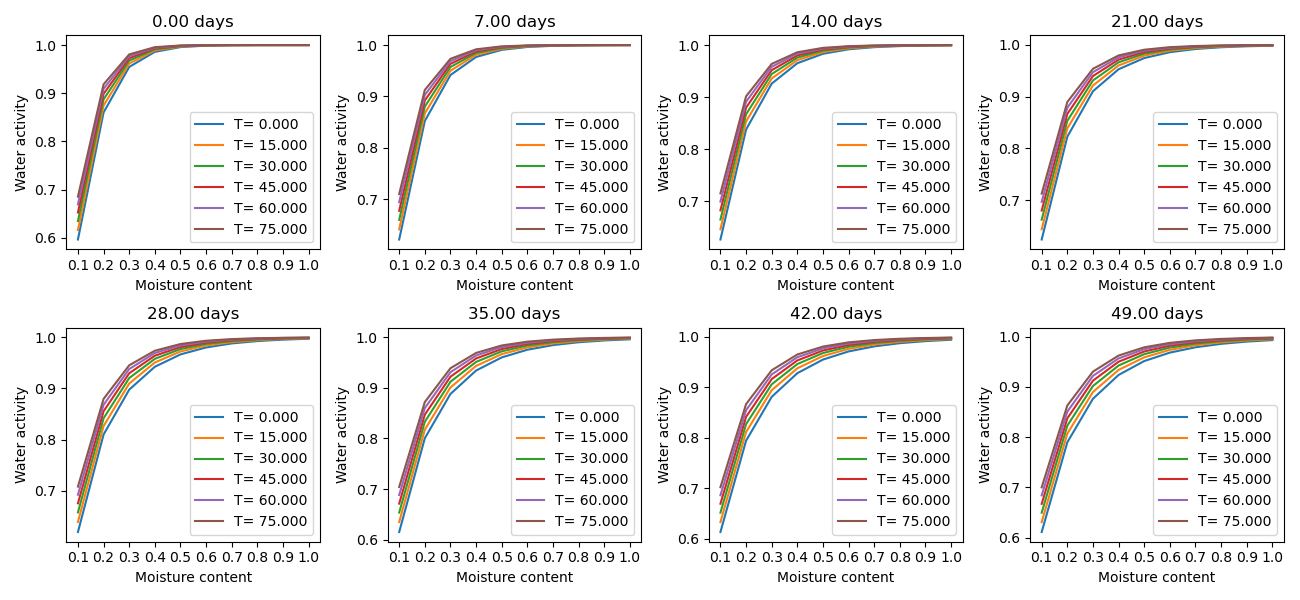
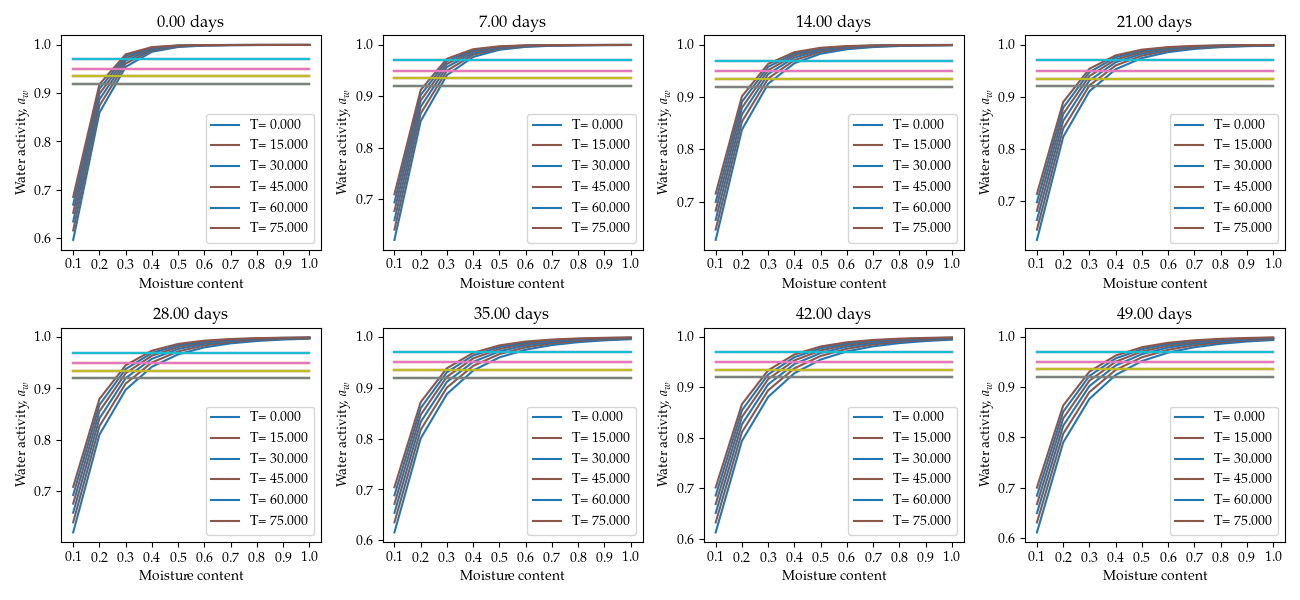
Empirical growth models
Setup file added with Arrhenius type and Ratkoswky typpe models. Canonica temperature and pH model is plotted for several species of bacteria.

diff --git a/setup.py b/setup.py
@@ -1,10 +1,15 @@
-from fipy import *
 from numpy import *
-import matplotlib
 import matplotlib.pyplot as plt
-from mpl_toolkits.axes_grid1 import  make_axes_locatable
-from tqdm import tqdm
-
+plt.rcParams.update({
+    "text.usetex": True,
+    "font.family": "sans-serif",
+    "font.sans-serif": ["Helvetica"]})
+# for Palatino and other serif fonts use:
+plt.rcParams.update({
+    "text.usetex": True,
+    "font.family": "serif",
+    "font.serif": ["Palatino"],
+})
 ## Definitions
 
 def temp_dependency(x):
@@ -14,9 +19,44 @@ def temp_dependency(x):
 
 
 def arrhenius(x,T, E_a):
+    # commonly used model for temperature-dependent reaction rates
     gas_const = 8.314446
     T = T + 273.15
     return x*exp(-E_a / (gas_const * T))
+
+def sharpe_demichele(T, enthalpies, entropies):
+    # activation driven by a single rate-limiting enzyme-catalysed reaction
+    # the rate of this reaction is Arrhenius, with additional thermodynamic terms
+    # quantifying rate-modifying effect of low and high temperatures
+    gas_const = 8.314446
+    T = T + 273.15
+    return T*exp((entropies[0] - enthalpies[0]/T)/gas_const)/(1 + exp((entropies[1] - enthalpies[1]/T)/gas_const) + exp((entropies[2] - enthalpies[2]/T)/gas_const))
+
+def schoolfield(T, enthalpies, T_high, T_low, phi):
+    # activation driven by a single rate-limiting enzyme-catalysed reaction
+    # the rate of this reaction is Arrhenius, with additional thermodynamic terms
+    # quantifying rate-modifying effect of low and high temperatures
+    # enthalpies - heat of activation
+    # phi - a constant encompassing the entropy of activation of the rate-controlling enzyme
+    gas_const = 8.314446
+    T = T + 273.15
+    rho = 298*exp(phi - enthalpies[0]/gas_const)
+    return (rho*T*exp(enthalpies[0]*(1/298 - 1/T)/gas_const)/298)/(1 + exp(enthalpies[1]*(1/T_low - 1/T)/gas_const) + exp(enthalpies[2]*(1/T_high - 1/T)/gas_const))
+
+def cardinal_model(x, x_opt, x_min, x_max):
+    # model originally proposed for temerpature dependent growth rate in Rosso et.al. 1995
+    # used as gamma parameter for growth inhibition in response to PH
+    gamma = (x - x_min)*(x - x_max)/((x - x_min)*(x - x_max) - (x - x_opt)**2)
+    indeces = [i for i in range(len(x)) if x[i] < x_min or x[i] > x_max]
+    gamma[indeces] = 0
+    return gamma
+
+def ratkowsky_model(x, x_min, x_max, b, c):
+    # Ratkowsky model only includes min temperature and defines the square root of the growth rate
+    return (b*(x - x_min)*(1 - exp(c*(x - x_max))))**2
+
+def mcmeekin_model(a_w, a_w_min):
+    return a_w - a_w_min
 
 def water_activity(moisture_content, T, time):
     # moisture_content - moisture content in parts
@@ -30,12 +70,16 @@ def water_activity(moisture_content, T, time):
 ## Tests and plots
 
 if __name__ == '__main__':
-    # Water Activity against moisture content for different temperatur
+    # Water Activity against moisture content for different temperature
     tempr_w_cont = arange(0., 90., 15.)
     times = arange(0., 56., 7.)
     numRows = int(ceil(len(times)/2))
     fig1, axs1 = plt.subplots(2, numRows)
     moistures = arange(.1, 1.1, .1)
+    aw_min_ecol = .95 * ones(len(moistures))
+    aw_min_bacil_c = .92 * ones(len(moistures))
+    aw_min_clostr_b = .935 * ones(len(moistures))
+    aw_min_fe = .97 * ones(len(moistures))
     fig1.set_size_inches(13.0, 6.0)
     for j in range(len(times)):
         for i in range(len(tempr_w_cont)):
@@ -43,13 +87,51 @@ if __name__ == '__main__':
             axCol = int(j/numRows)
             axRow = int(j%numRows)
             axs1[axCol, axRow].plot(moistures, a_w, label='T= %.3f' % (tempr_w_cont[i]))
+            axs1[axCol, axRow].plot(moistures, aw_min_ecol)
+            axs1[axCol, axRow].plot(moistures, aw_min_bacil_c)
+            axs1[axCol, axRow].plot(moistures, aw_min_clostr_b)
+            axs1[axCol, axRow].plot(moistures, aw_min_fe)
             axs1[axCol, axRow].legend()
             axs1[axCol, axRow].set_xlabel('Moisture content')
-            axs1[axCol, axRow].set_ylabel('Water activity')
+            axs1[axCol, axRow].set_ylabel('Water activity, $a_w$')
             axs1[axCol, axRow].set_title('%.2f days'%(times[j]))
             axs1[axCol, axRow].xaxis.set_ticks(arange(.1, 1.1, .1))
     plt.tight_layout()
     plt.savefig('Water activity vs moisture content')
+
+    # pH inactivation curve - arbitrary values
+    phs = arange(4., 10.5, .1)
+    temperatures = arange(10., 60., .1)
+    rates = cardinal_model(phs, 7.5, 5.1, 9.5)
+    rates_ecol = cardinal_model(phs, 7, 4, 10)
+    rates_fe   = cardinal_model(phs, 7, 5, 9.6)
+    rates_bacil_c = cardinal_model(phs, 7, 4.9, 9.3)
+    rates_clostr_b = cardinal_model(phs, 7, 4.6, 9)
+    t_rates_ecol = cardinal_model(temperatures, 40.3, 5.6, 47.3)
+    t_rates_fe   = cardinal_model(temperatures, 42, .1, 53.5)
+    t_rates_bacil_c = cardinal_model(temperatures, 40.1, 4.1, 50.0)
+    t_rates_clostr_b = cardinal_model(temperatures, 39.3, 11.0, 45.8)
+    fig2, axs2 = plt.subplots(1, 2)
+    fig2.set_size_inches(13.0, 6.0)
+    axs2[0].plot(phs, rates_ecol,  label='$E.coli$')
+    axs2[0].plot(phs, rates_bacil_c,  label='$B.cereus$')
+    axs2[0].plot(phs, rates_clostr_b,  label='$C.botulinum$')
+    axs2[0].plot(phs, rates_fe,  label='$E.faecium$')
+    axs2[0].legend()
+    axs2[0].set_xlabel('pH')
+    axs2[0].set_ylabel('$\gamma(\mathrm{pH})$')
+    axs2[0].set_title ('Growth rate factor vs pH')
+    axs2[1].plot(temperatures, t_rates_ecol,  label='$E.coli$')
+    axs2[1].plot(temperatures, t_rates_bacil_c,  label='$B.cereus$')
+    axs2[1].plot(temperatures, t_rates_clostr_b,  label='$C.botulinum$')
+    axs2[1].plot(temperatures, t_rates_fe,  label='$E.faecium$')
+    axs2[1].legend()
+    axs2[1].set_xlabel('T, $^{\circ}$C')
+    axs2[1].set_ylabel('$\gamma(\mathrm{T})$')
+    axs2[1].set_title ('Growth rate factor vs T')
+    plt.tight_layout()
+    plt.savefig('Inhibition of growth rates')
+
     # Arrhenius curves for different activation energy values:
     Death_u, Death_v = .1, .2
     tempr_plot = arange(10., 100., 10.)
@@ -59,16 +141,42 @@ if __name__ == '__main__':
         energy = 10. ** e_power
         rates_u = arrhenius(Death_u, tempr_plot, energy)
         rates_v = arrhenius(Death_v, tempr_plot, energy)
-        axs[0].plot(tempr_plot, log(rates_u), label='E_a= %.3f' % (energy))
-        axs[1].plot(tempr_plot, log(rates_v), label='E_a= %.3f' % (energy))
+        axs[0].plot(tempr_plot, log(rates_u), label='$E_a=$ %.3f' % (energy))
+        axs[1].plot(tempr_plot, log(rates_v), label='$E_a=$ %.3f' % (energy))
     axs[0].legend()
     axs[0].set_xlabel('T, C')
-    axs[0].set_ylabel('log(r_d), for u')
+    axs[0].set_ylabel('$\log(r_d)$, for u')
     axs[1].legend()
     axs[1].set_xlabel('T, C')
-    axs[1].set_ylabel('log(r_d), for v')
+    axs[1].set_ylabel('$\log(r_d)$, for v')
     plt.show()
-    plt.savefig('Arrhenius plot')
+    plt.savefig('Arrhenius plot for death rates')
+#   Schoolfield growthrates
+    temprs = arange(10., 43., 1.)
+    a_ws = arange(0.96, 1.01, .01)
+    growths_ec = empty([len(a_ws), len(temprs)])
+    # Data from ComBase - depending on a_w above activation and T - at PH=7
+    # growths_ec[0, :] = array([.009, .011, .013, .016, .020, .024, .029, \
+    #                           .034, .040, ])
+    # growths_ec[1, :] = array([])
+    # growths_ec[2, :] = array([])
+    # growths_ec[3, :] = array([])
+    growths_ec[4, :] = array([.027, .035, .044, .056, .069, .086, .105, \
+                              .126, .151, .179, .210, .244, .281, .320, \
+                              .361, .403, .445, .487, .527, .566, .601, \
+                              .631, .657, .677, .691, .698, .698, .691, \
+                              .678, .658, .632, .602, .567])
+    # growths_ec[5, :] = array([])
+    temprs_kelvin = 1/(temprs + 273.15)
+    fig = plt.figure()
+    ax = fig.add_subplot( 111 )
+    ax.plot((temprs_kelvin),(growths_ec[4, :]))
+    ax_top = ax.secondary_xaxis('top')
+    ax.set_xlabel('1/T, 1/Kelvin')
+    ax.set_ylabel('growth rate, $h^{-1}$')
+    plt.savefig('Arrhenius plor growth rate')
+
+
 
 
 

diff --git a/populations_3D.py b/populations_3D.py
@@ -1,11 +1,12 @@
 from fipy import *
 from numpy import *
+from tqdm import tqdm
 import matplotlib
 import matplotlib.pyplot as plt
 import matplotlib.animation as animate
 from mpl_toolkits.axes_grid1 import  make_axes_locatable
 writegif = animate.PillowWriter(fps=30)
-from tqdm import tqdm
+
 matplotlib.use('TkAgg')
 nx = ny = nz= 20
 dx = dy = dz = 1.
